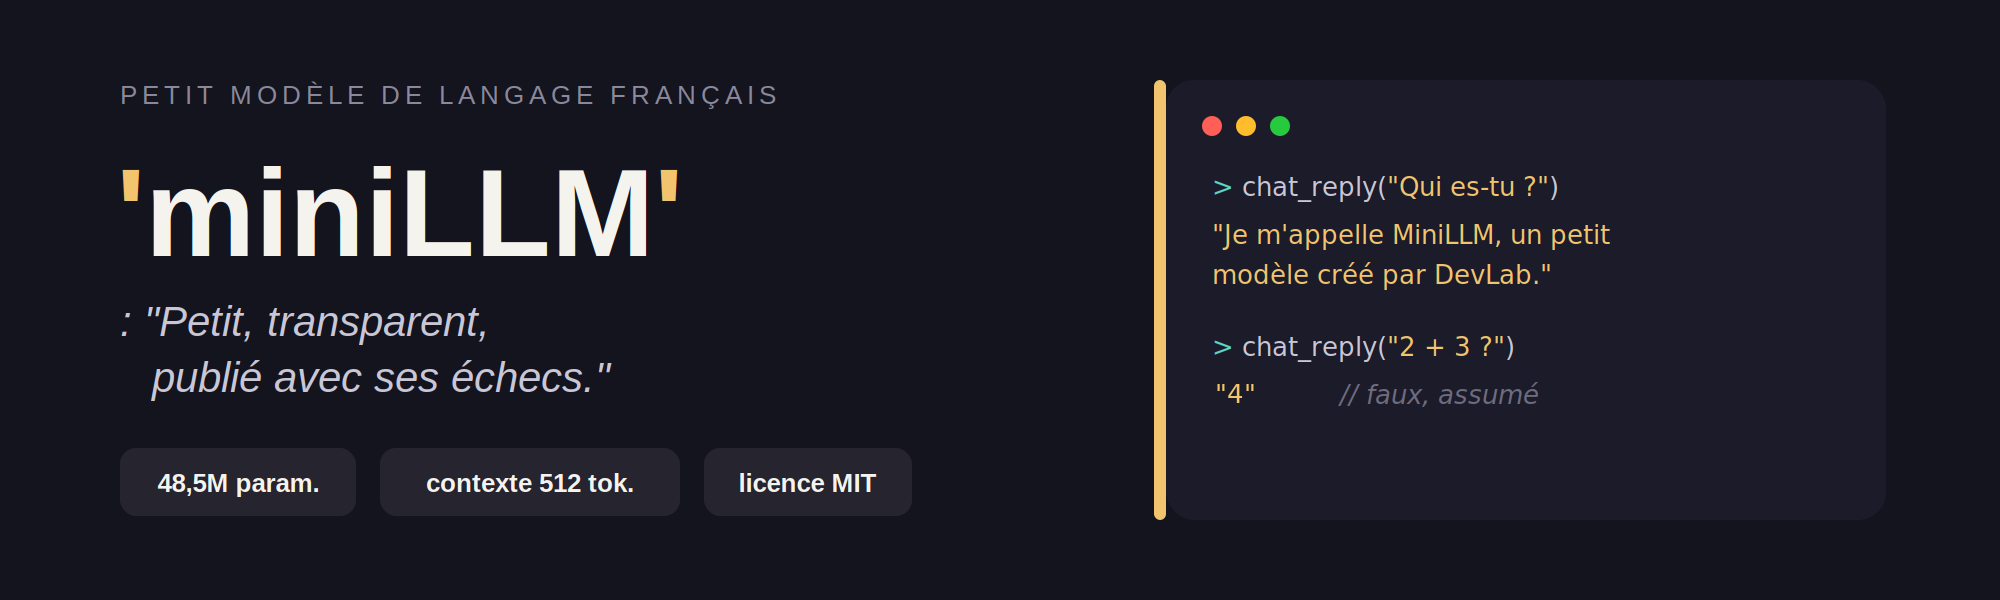
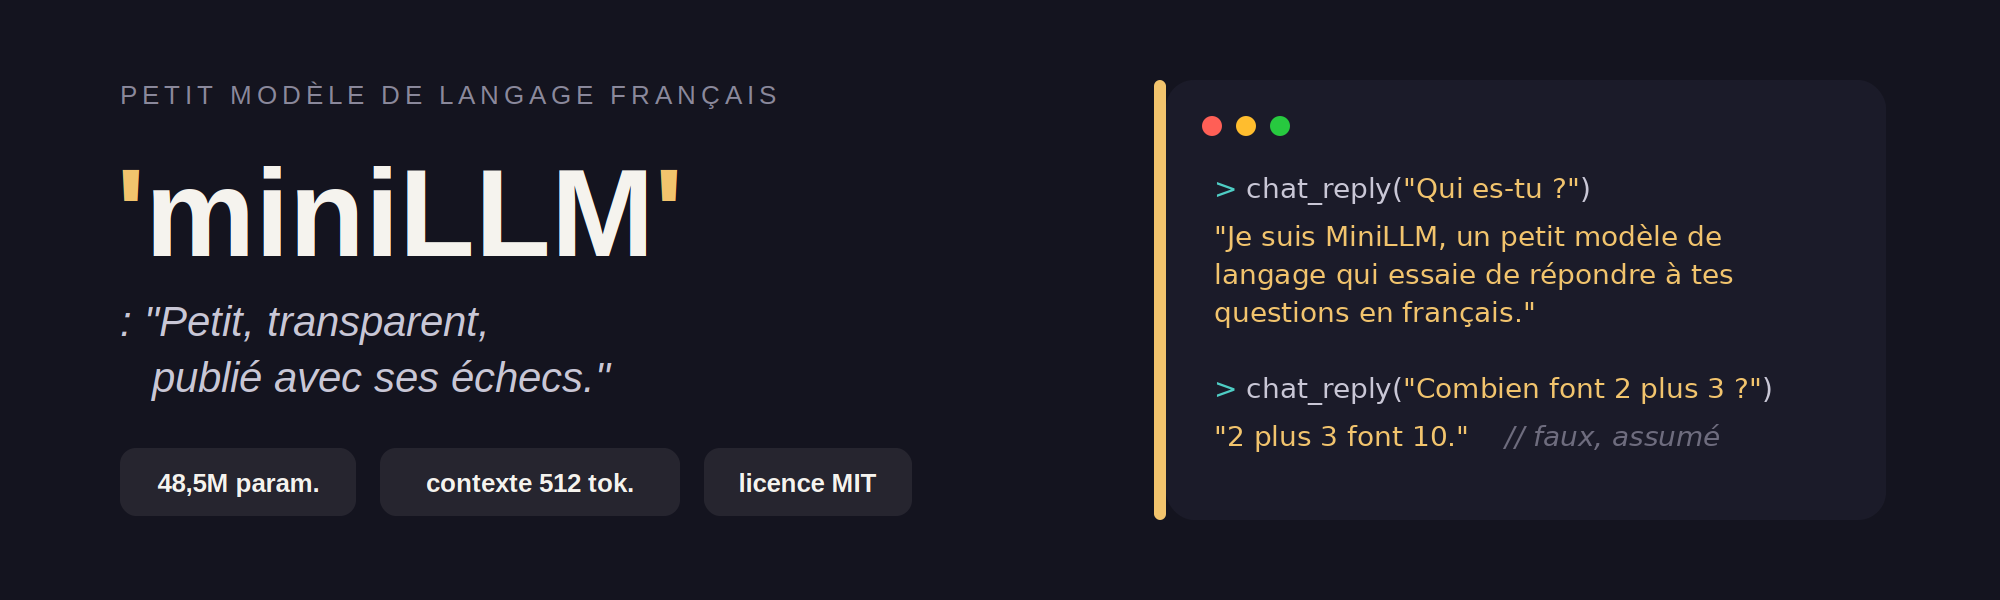
fix(release): pas de __pycache__ publié, bannière régénérée avec de vraies réponses (make_banner)

diff --git a/make_banner.py b/make_banner.py
@@ -1,0 +1,60 @@
+"""
+make_banner.py — régénère assets/banner.png avec de VRAIES réponses du modèle (panneau de droite).
+
+Le fond, le titre et les pastilles sont conservés de la bannière précédente ; seules les lignes du dialogue sont redessinées
+(même police DejaVu Sans, mêmes couleurs). Les réponses affichées sont passées en paramètre : ne jamais y mettre un texte
+qui n'a pas été produit par le modèle publié.
+"""
+from __future__ import annotations
+
+import sys
+from typing import List, Tuple
+
+from PIL import Image, ImageDraw, ImageFont
+
+BG = (27, 27, 41)
+TEAL, LIGHT, YELLOW, GREY = (78, 205, 196), (201, 199, 214), (242, 196, 109), (110, 108, 126)
+FONT = "/usr/share/fonts/truetype/dejavu/DejaVuSans.ttf"
+FONT_I = "/usr/share/fonts/truetype/dejavu/DejaVuSans-Oblique.ttf"
+
+
+def _wrap(draw, text: str, font, max_w: int) -> List[str]:
+    lines, cur = [], ""
+    for word in text.split(" "):
+        trial = (cur + " " + word).strip()
+        if draw.textlength(trial, font=font) <= max_w or not cur:
+            cur = trial
+        else:
+            lines.append(cur)
+            cur = word
+    return lines + [cur]
+
+
+def render(src: str, dst: str, exchanges: List[Tuple[str, str, str]], size: int = 28, x0: int = 1214, max_w: int = 600) -> None:
+    """exchanges : [(question, réponse, commentaire éventuel)] ; au plus 2 échanges pour tenir dans le panneau."""
+    im = Image.open(src).convert("RGB")
+    d = ImageDraw.Draw(im)
+    d.rectangle((1195, 150, 1855, 485), fill=BG)
+    f, fi = ImageFont.truetype(FONT, size), ImageFont.truetype(FONT_I, size)
+    y = 172
+    for q, a, note in exchanges:
+        d.text((x0, y), ">", font=f, fill=TEAL)
+        x = x0 + d.textlength("> ", font=f)
+        for part, col in (("chat_reply(", LIGHT), (f'"{q}"', YELLOW), (")", LIGHT)):
+            d.text((x, y), part, font=f, fill=col)
+            x += d.textlength(part, font=f)
+        y += 48
+        lines = _wrap(d, f'"{a}"', f, max_w)
+        for k, ln in enumerate(lines):
+            d.text((x0, y), ln, font=f, fill=YELLOW)
+            if k == len(lines) - 1 and note:
+                d.text((x0 + d.textlength(ln, font=f) + 36, y), note, font=fi, fill=GREY)
+            y += 38
+        y += 38
+    im.save(dst)
+
+
+if __name__ == "__main__":
+    src, dst = sys.argv[1], sys.argv[2]
+    render(src, dst, [("Qui es-tu ?", "Je suis MiniLLM, un petit modèle de langage qui essaie de répondre à tes questions en français.", ""),
+                      ("Combien font 2 plus 3 ?", "2 plus 3 font 10.", "// faux, assumé")])

diff --git a/tests/test_all.py b/tests/test_all.py
@@ -893,3 +893,15 @@ def test_knowledge_scoring_wilson_and_noise_helpers():
     r = {"persona": {"exact_match": 0.99}, "qa": {"f1": 0.33}, "basics": {"basics": 0.6}, "knowledge": {"knowledge": 0.2}}
     r2 = {**r, "basics": {"basics": 0.64}}
     assert any("étendue  4.0" in l for l in noise_lines({"A": r, "B": r2}, ["A", "B"]))
+
+
+def test_banner_renderer_wraps_real_answers_and_keeps_size(tmp_path):
+    from PIL import Image
+    import make_banner
+    src = tmp_path / "src.png"
+    Image.new("RGB", (2000, 600), (20, 20, 31)).save(src)
+    dst = tmp_path / "out.png"
+    make_banner.render(str(src), str(dst), [("Qui es-tu ?", "Je suis MiniLLM, un petit modèle de langage qui essaie de répondre à tes questions en français.", ""),
+                                            ("Combien font 2 plus 3 ?", "2 plus 3 font 10.", "// faux, assumé")])
+    im = Image.open(dst)
+    assert im.size == (2000, 600) and len(set(im.crop((1195, 150, 1855, 485)).getdata())) > 5     # du texte a bien été dessiné

diff --git a/export_hf.py b/export_hf.py
@@ -81,7 +81,9 @@ def smoke_test(out_dir: str, tokenizer_path: str, questions=("Qui es-tu ?", "Que
     m = inference.load_model(os.path.join(out_dir, "model.safetensors"), os.path.join(out_dir, "config.json"),
                              device="cpu", dtype="fp32")
     tk = inference.MiniTokenizer(tokenizer_path)
-    return {q: inference.chat_reply(m, tk, [{"role": "user", "content": q}], temperature=0.0) for q in questions}
+    out = {q: inference.chat_reply(m, tk, [{"role": "user", "content": q}], temperature=0.0) for q in questions}
+    shutil.rmtree(os.path.join(out_dir, "__pycache__"), ignore_errors=True)       # ne pas publier le cache Python
+    return out
 
 
 def assemble_static(out_dir: str, release_dir: str, tokenizer_path: str, extra: Optional[Dict[str, str]] = None) -> None:

diff --git a/CHANGELOG.md b/CHANGELOG.md
@@ -2,6 +2,9 @@
 
 ## Mesure plus fine + bruit entre graines (branche `v2.1.1`)
 
+* **Publication v2.2, passe 1 vérifiée sur Colab** : export sans écart (113 tenseurs, `max_diff` 0), poids liés confirmés (`tok_emb` = `lm_head`), test de fumée OK avec `inference.py` seul. Correctif : `__pycache__` créé par le test de fumée n'est plus envoyé sur Hugging Face. `make_banner.py` régénère la bannière avec de vraies réponses du modèle (l'ancienne affichait « 2 + 3 ? » → « 4 », que C ne produit pas).
+* `SFT_lr_seeds.ipynb` compare maintenant aussi le modèle publié (PUB).
+
 * **`knowledge_eval.py`** : 204 questions de connaissances (48 capitales absentes du SFT, 10 chefs-lieux de régions du Cameroun, géographie, sciences, animaux, nombres, langue, culture, informatique) avec intervalle de confiance de Wilson. Vérifié par test : aucun doublon, aucune question issue des générateurs du SFT (`leakage()`).
 * **`basics_eval.is_correct`** : accepte les ligatures (« sœur » = « soeur », « cœur » = « coeur ») ; avant, une bonne réponse avec « œ » était comptée fausse.
 * **`compare_sft.py`** : colonne `know±` (taux et demi-largeur de l'IC95) ; `--noise_group C,Cs1,Cs2` affiche l'étendue de chaque mesure entre graines.
